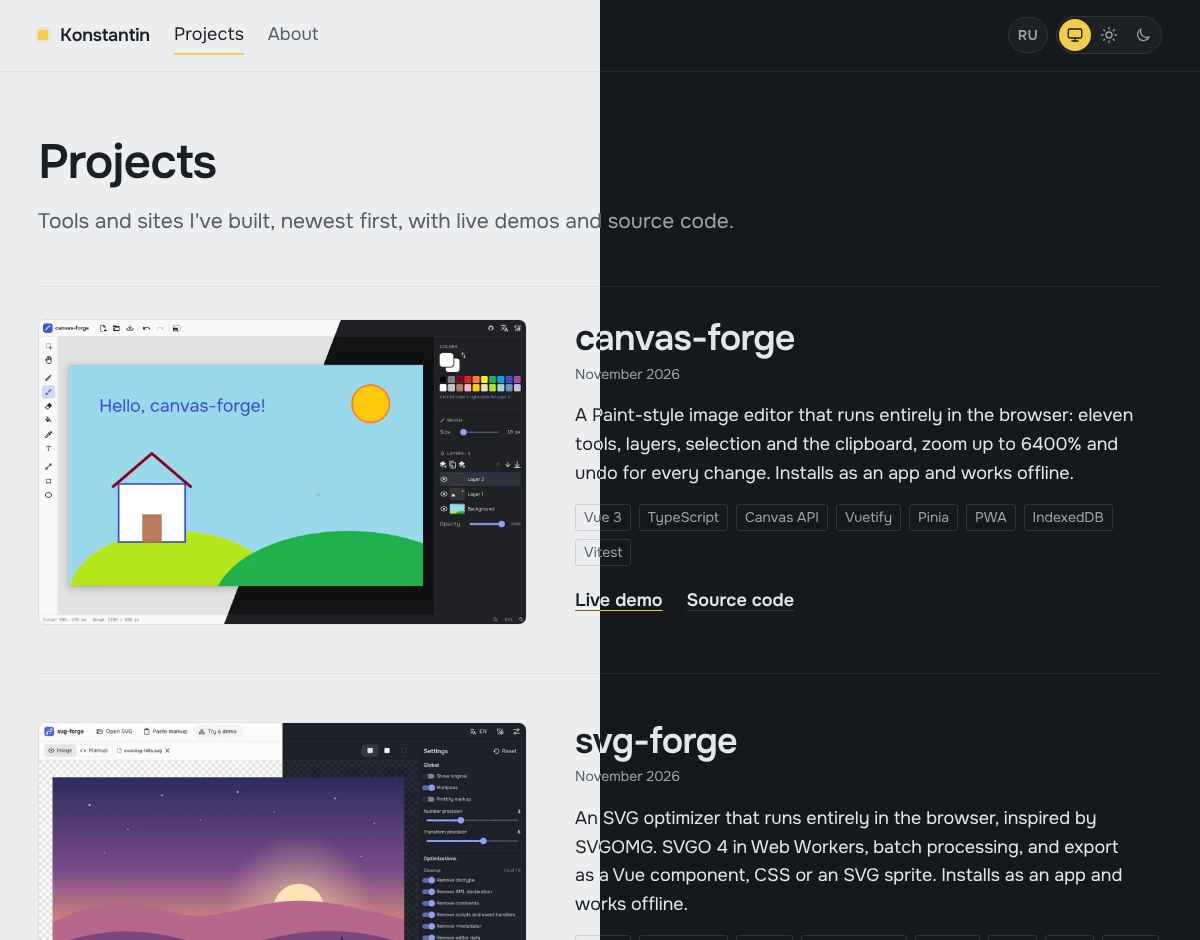
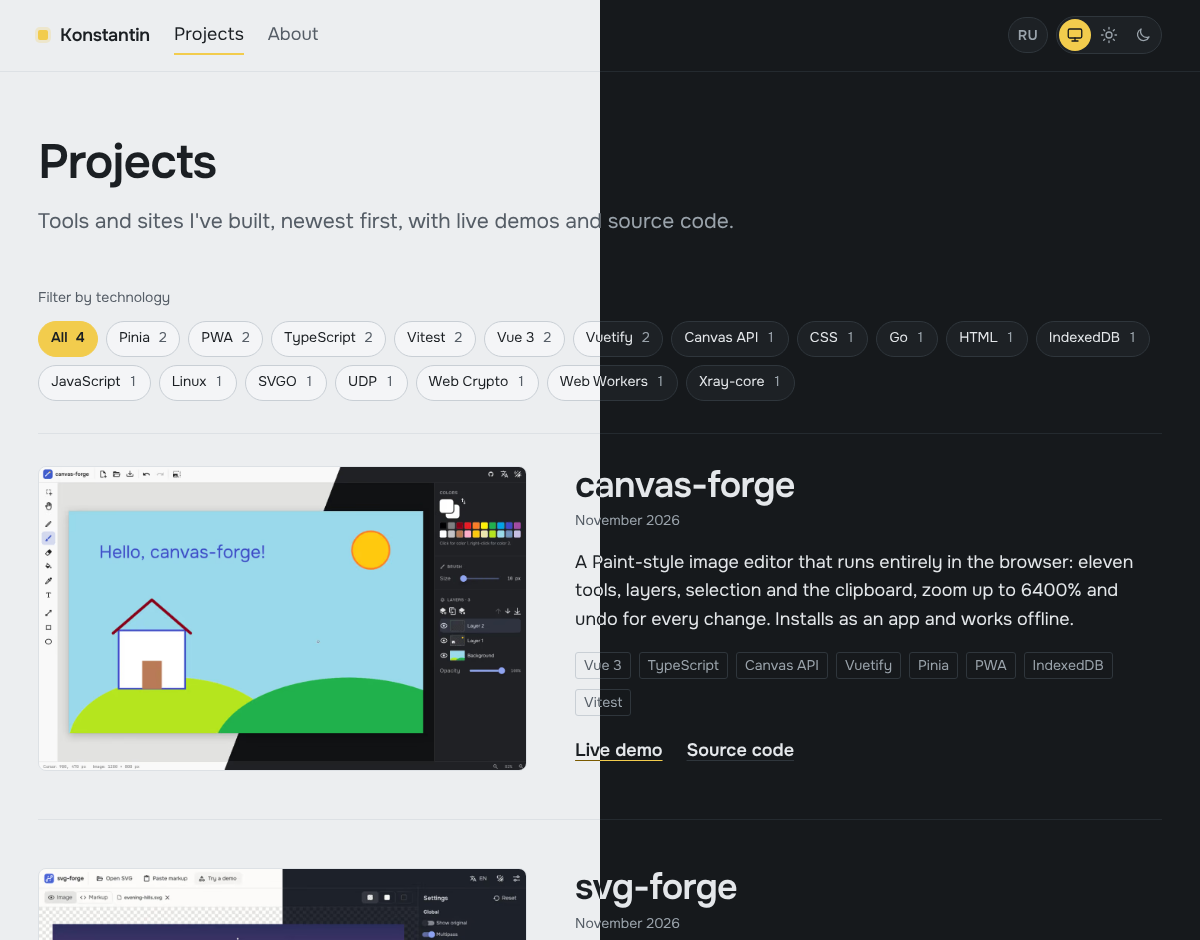
docs: update the README for project pages and the filter
Features, tech stack, what happens after adding a project file, tests,
project structure and the roadmap (stage 3 done). The screenshot now
shows the filter.

diff --git a/README.ru.md b/README.ru.md
@@ -10,7 +10,7 @@
 
 ![Страница проектов: слева светлая тема, справа тёмная](docs/screenshots/projects.png)
 
-> **В разработке.** Каркас и список проектов готовы: проекты берутся из JSON-файлов, которые проверяются по схеме. Страницы проектов и фильтры появятся на следующем этапе [плана](#план).
+> **В разработке.** Раздел проектов готов: список с фильтром по технологиям и отдельная страница для каждого проекта. Главная с избранными проектами появится на следующем этапе [плана](#план).
 
 ## Возможности
 
@@ -18,6 +18,10 @@
 - Опечатка в названии технологии, пропущенный перевод или неверная дата роняют сборку с понятным сообщением, а не попадают на сайт
 - Список проектов: от новых к старым, скриншот, дата и статус, описание, стек, ссылки на демо и код
 - У проектов без графического интерфейса вместо скриншота показаны команды запуска в блоке терминала
+- Отдельная страница для каждого проекта: описание, кнопки демо и кода, большой скриншот, что внутри, стек и ссылки на проект новее и проект раньше
+- Фильтр по технологиям со счётчиком у каждой; фильтр хранится в адресе (`/projects?stack=pwa`), поэтому отфильтрованным списком можно поделиться, а плашки стека на странице проекта ведут прямо в него
+- Скриншоты при сборке превращаются в AVIF с запасным WebP, в тех размерах, которые нужны каждой раскладке: три обложки весят 24 КБ на обычном экране
+- Каждая страница проекта заранее собирается на обоих языках, а битая внутренняя ссылка роняет сборку
 - Статический сайт: каждая страница заранее собрана в HTML, поэтому быстро загружается и размещается на любом хостинге
 - Английский по адресу `/`, русский по `/ru`: у каждой страницы свой адрес, канонический URL и ссылки hreflang для поисковиков
 - При первом визите язык выбирается по браузеру, дальше выбор запоминается
@@ -40,6 +44,7 @@
 | Рендеринг        | Статическая сборка через `nuxt generate`, хостинг на Vercel |
 | Стили            | SCSS, design tokens в CSS-переменных, без UI-библиотеки     |
 | Контент          | Nuxt Content 3 на встроенном SQLite из Node, схемы на Zod   |
+| Картинки         | @nuxt/image с IPX: AVIF и WebP при сборке                   |
 | Локализация      | @nuxtjs/i18n                                                |
 | Темы             | @nuxtjs/color-mode                                          |
 | Шрифты           | @fontsource-variable/onest, jetbrains-mono                  |
@@ -78,6 +83,8 @@ pnpm dev
 1. Положите скриншот в `public/projects/<slug>/`, например `cover.webp`. Лучше всего пропорции 16:10; хороший размер: WebP 1440×900.
 2. Создайте `content/projects/<slug>.json`. Имя файла станет адресом проекта, поэтому только строчные латинские буквы, цифры и дефисы.
 3. Запустите `pnpm test`: тест проверит файл по схеме и точно скажет, чего не хватает. Потом коммит.
+
+Страница проекта по адресам `/projects/<slug>` и `/ru/projects/<slug>`, карточка в списке и пункт в фильтре появятся сами. Уменьшенные копии скриншота в AVIF и WebP делаются при сборке, так что коммитить нужно только оригинал.
 
 ```json
 {
@@ -125,8 +132,9 @@ pnpm dev
 
 - **Design tokens:** тест читает SCSS-файлы токенов и проверяет каждый цвет текста на каждой поверхности в обеих темах на контраст WCAG AA, а также текст на акцентной заливке и в блоке терминала. Если поменять палитру так, что текст станет хуже читаться, CI упадёт.
 - **Файлы проектов:** каждый файл в `content/projects` проверяется по схеме и по правилам, которые касаются нескольких полей или файлов: есть скриншот или блок терминала, есть демо у живого проекта с интерфейсом, безопасное для адреса имя файла, скриншот лежит на диске. Сама схема проверяется на заведомо неправильных примерах.
+- **Фильтр:** подсчёт и сортировка технологий, фильтрация и чтение `?stack=` из адреса, включая неизвестные id и повторённые параметры.
 - **Переводы:** в английском и русском одинаковые ключи, нет пустых строк и длинных тире.
-- **Компоненты** монтируются в настоящем Nuxt-приложении: переключатель темы отмечает ровно один вариант и меняет тему; ссылка смены языка ведёт на ту же страницу на другом языке; карточка проекта со скриншотом и с терминалом, названия ссылок для скринридеров.
+- **Компоненты** монтируются в настоящем Nuxt-приложении: переключатель темы отмечает ровно один вариант и меняет тему; ссылка смены языка ведёт на ту же страницу на другом языке; карточка проекта со скриншотом и с терминалом, её ссылки на страницу проекта и их названия для скринридеров; кнопки фильтра, их нажатое состояние и сброс; плашки стека со ссылками на отфильтрованный список.
 
 ## Структура проекта
 
@@ -138,20 +146,20 @@ app/
     _mixins.scss брейкпоинты и помощники, доступны в каждом компоненте
   components/
     layout/      шапка и подвал
-    project/     карточка проекта, плашки стека, блок терминала
+    project/     карточка, картинка, строка с датой, плашки стека и фильтр, блок терминала
     ui/          переключатель темы, ссылка смены языка
   composables/   теги head, запросы проектов, выбор языка из контента
   layouts/       каркас страницы со ссылкой «Перейти к содержимому»
-  pages/         главная, проекты, обо мне
+  pages/         главная, проекты и страница каждого проекта, обо мне
   error.vue      страница 404 и ошибок
 content/projects/  по одному JSON-файлу на проект
 public/projects/   скриншоты проектов
 shared/
   schema/        схема проекта, её используют Nuxt Content и тесты
-  utils/         список технологий, которые может указать проект
+  utils/         список технологий, которые может указать проект, функции фильтра
 i18n/locales/    тексты на английском и русском
 test/
-  unit/          файлы проектов, схема, токены и переводы
+  unit/          файлы проектов, схема, фильтр, токены и переводы
   nuxt/          компоненты внутри Nuxt
 ```
 
@@ -159,7 +167,7 @@ test/
 
 1. ~~Каркас: инструменты, design tokens, темы, EN/RU, раскладка, тесты и CI~~ ✓
 2. ~~Проекты как данные: типизированная коллекция Nuxt Content, один JSON-файл на проект, список проектов~~ ✓
-3. Страницы проектов и фильтры: страница на каждый проект со скриншотами и описанием, фильтр по стеку, оптимизация картинок
+3. ~~Страницы проектов и фильтры: страница на каждый проект, фильтр по стеку, оптимизация картинок~~ ✓
 4. Главная: первый экран и избранные проекты
 5. Обо мне и контакты: опыт, навыки, ссылки
 6. SEO и превью ссылок: картинки Open Graph, sitemap, favicon

diff --git a/README.md b/README.md
@@ -10,7 +10,7 @@ My portfolio site, built with Nuxt 4. Each project is one JSON file in the repos
 
 ![The projects page, light theme on the left and dark on the right](docs/screenshots/projects.png)
 
-> **In progress.** The shell and the project list are done: projects come from JSON files checked against a schema. Project pages and filters arrive in the next stage of the [roadmap](#roadmap).
+> **In progress.** Projects are done: the list with a filter by technology and a page for every project. The home page with featured projects arrives in the next stage of the [roadmap](#roadmap).
 
 ## Features
 
@@ -18,6 +18,10 @@ My portfolio site, built with Nuxt 4. Each project is one JSON file in the repos
 - A typo in a technology name, a missing translation or a bad date fails the build with a clear message instead of reaching the site
 - The project list: newest first, a screenshot, date and status, a summary, the stack, and links to the demo and the code
 - Projects without a user interface show the commands to run them in a terminal block
+- A page for every project: summary, demo and code buttons, a large screenshot, what's inside, the stack, and links to the newer and older project
+- Filter by technology with a count for each; the filter is part of the address (`/projects?stack=pwa`), so a filtered list can be shared, and stack tags on project pages lead straight to it
+- Screenshots are converted at build time to AVIF with a WebP fallback, in the widths each layout needs: three covers weigh 24 KB on a regular screen
+- Every project page is pre-rendered in both languages, and a broken internal link fails the build
 - Static site: every page is pre-rendered to HTML, so it loads fast and hosts anywhere
 - English at `/` and Russian at `/ru`, each page with its own address, a canonical link and hreflang alternates for search engines
 - The first visit follows the browser language; after that the choice is kept
@@ -40,6 +44,7 @@ My portfolio site, built with Nuxt 4. Each project is one JSON file in the repos
 | Rendering       | Static generation with `nuxt generate`, hosted on Vercel |
 | Styles          | SCSS, design tokens as CSS custom properties, no UI kit  |
 | Content         | Nuxt Content 3 on Node's built-in SQLite, Zod schemas    |
+| Images          | @nuxt/image with IPX: AVIF and WebP at build time        |
 | Localization    | @nuxtjs/i18n                                             |
 | Themes          | @nuxtjs/color-mode                                       |
 | Fonts           | @fontsource-variable/onest, jetbrains-mono               |
@@ -78,6 +83,8 @@ The dev server runs at http://localhost:3000.
 1. Put a screenshot in `public/projects/<slug>/`, for example `cover.webp`. 16:10 works best; 1440×900 WebP is a good size.
 2. Create `content/projects/<slug>.json`. The file name becomes the project's address, so use lowercase letters, digits and hyphens.
 3. Run `pnpm test`: it checks the file against the schema and tells you exactly what is missing. Then commit.
+
+The project page at `/projects/<slug>` and `/ru/projects/<slug>`, the card in the list and the filter options appear on their own. Smaller copies of the screenshot in AVIF and WebP are made during the build, so commit only the original.
 
 ```json
 {
@@ -125,8 +132,9 @@ Tests run with Vitest locally and on every push in GitHub Actions, together with
 
 - **Design tokens:** the test reads the SCSS token files and checks every text color against every surface in both themes for WCAG AA contrast, plus text on the accent fill and in the terminal block. Change the palette in a way that hurts readability, and CI fails.
 - **Project files:** every file in `content/projects` is checked against the schema, plus the rules that span fields or the file system: a cover or a terminal block, a demo link for live projects with an interface, a URL-safe file name, the cover present on disk. The schema itself is tested with broken examples.
+- **Filter:** counting and sorting technologies, filtering, and reading `?stack=` from the address, including unknown ids and repeated parameters.
 - **Translations:** English and Russian have the same keys, no empty strings and no long dashes.
-- **Components**, mounted in a real Nuxt app: the theme switch marks one option as pressed and changes the theme; the language link points to the same page in the other language; the project card with a cover and with a terminal, link names for screen readers.
+- **Components**, mounted in a real Nuxt app: the theme switch marks one option as pressed and changes the theme; the language link points to the same page in the other language; the project card with a cover and with a terminal, its links to the project page and their names for screen readers; the filter buttons, their pressed state and clearing; stack tags that link to the filtered list.
 
 ## Project structure
 
@@ -138,20 +146,20 @@ app/
     _mixins.scss breakpoints and helpers, available in every component
   components/
     layout/      header and footer
-    project/     project card, stack tags, terminal block
+    project/     card, picture, date line, stack tags and filter, terminal block
     ui/          theme switch, language link
   composables/   head tags, project queries, picking the language from content
   layouts/       page frame with the skip link
-  pages/         home, projects, about
+  pages/         home, projects and a page per project, about
   error.vue      404 and error page
 content/projects/  one JSON file per project
 public/projects/   project screenshots
 shared/
   schema/        the project schema, used by Nuxt Content and the tests
-  utils/         the list of technologies a project can use
+  utils/         the list of technologies a project can use, filter helpers
 i18n/locales/    English and Russian messages
 test/
-  unit/          project files, schema, tokens and translations
+  unit/          project files, schema, filter, tokens and translations
   nuxt/          components inside Nuxt
 ```
 
@@ -159,7 +167,7 @@ test/
 
 1. ~~Shell: tooling, design tokens, themes, EN/RU, layout, tests and CI~~ ✓
 2. ~~Projects as data: a typed Nuxt Content collection, one JSON file per project, the project list~~ ✓
-3. Project pages and filters: a page per project with screenshots and a write-up, filtering by stack, optimized images
+3. ~~Project pages and filters: a page per project, filtering by stack, optimized images~~ ✓
 4. Home page: the hero and featured projects
 5. About and contacts: experience, skills, links
 6. SEO and sharing: Open Graph images, sitemap, favicon
